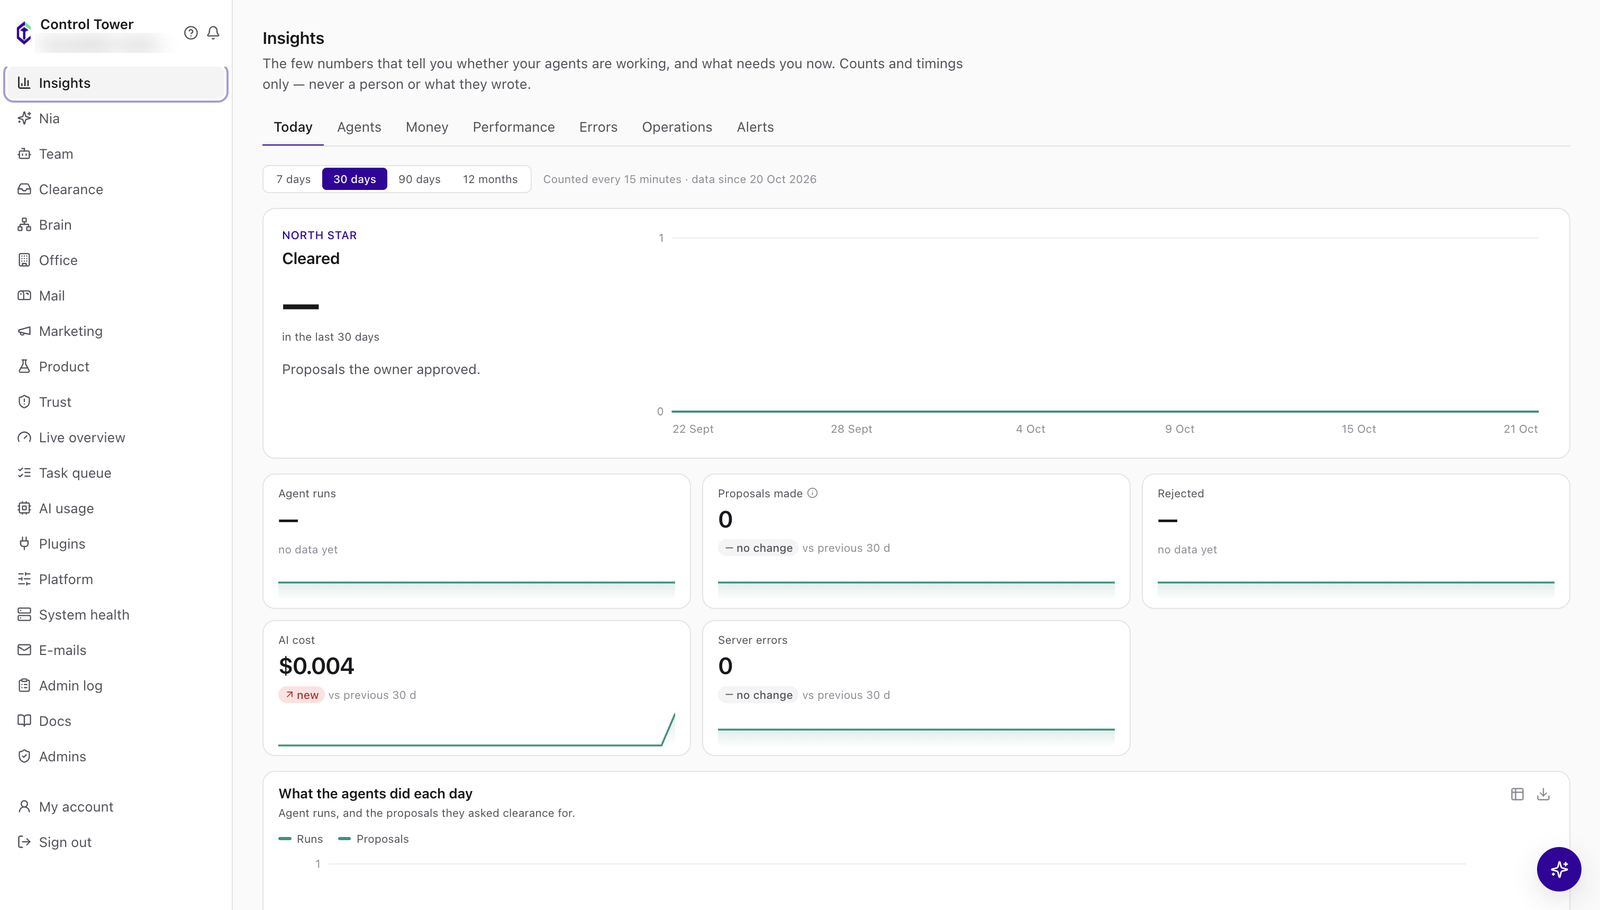
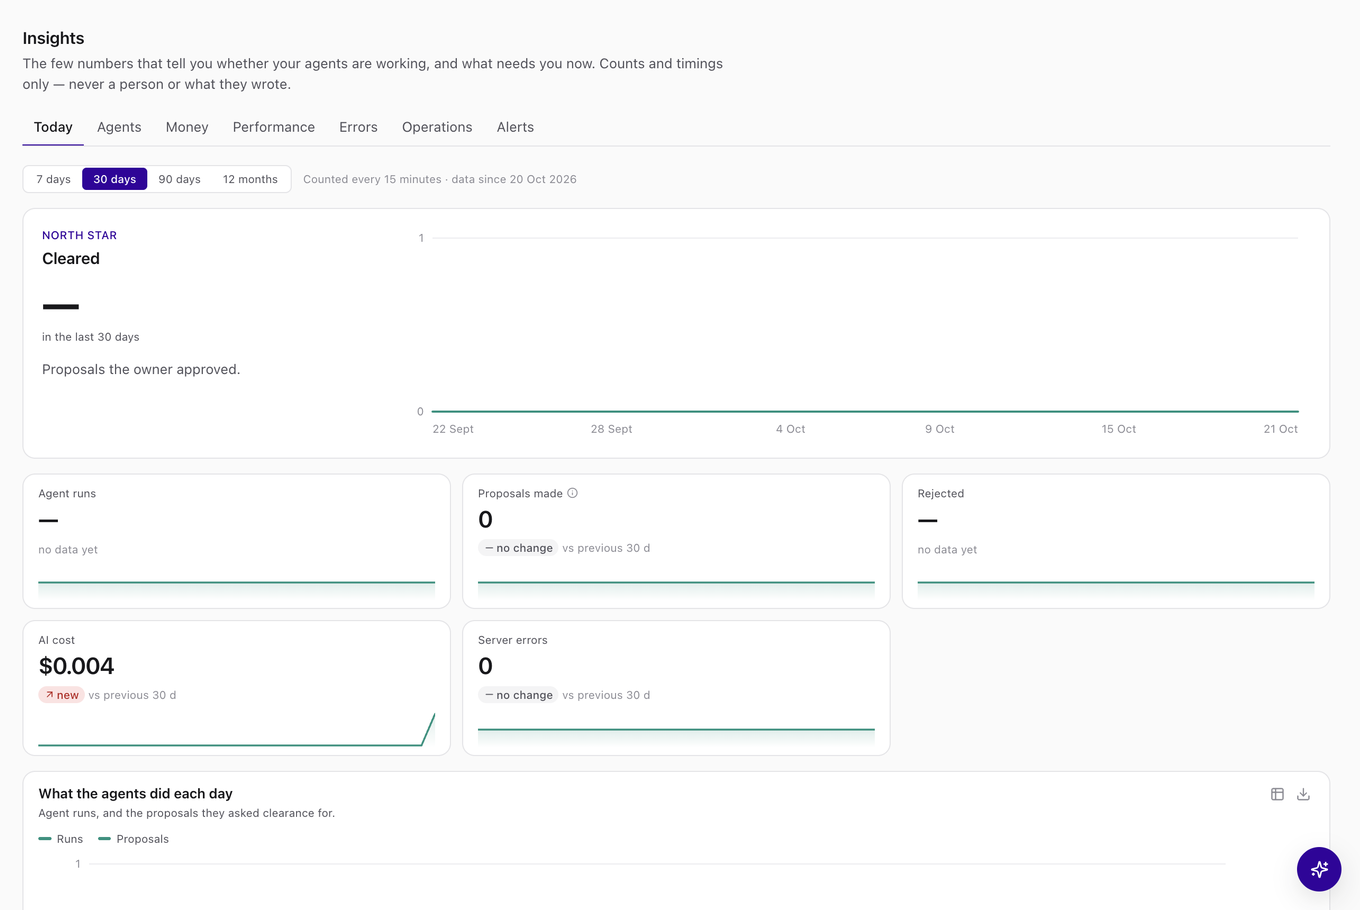
README: Clearance and Team screenshots from Epliv; See it as a readable grid
Screenshots cropped to the page content; the signed-in e-mail removed.

diff --git a/README.md b/README.md
@@ -51,18 +51,30 @@ follow-ups. Control Tower gives you a team for that, without handing your busine
 
 <table>
   <tr>
+    <td colspan="2" valign="top">
+      <img src="docs/images/clearance.png" alt="Clearance: suggestions from the agents Scout and Research Lead, each with why, the expected effect, the evidence and Approve, Edit or Reject">
+      <p><b>Clearance</b> — every suggestion waits for you, with why the agent makes it, what it expects, and the evidence. Approve, edit, or reject and say why: the agent learns from it. <sub>(Epliv, where it is called Approvals: 15 waiting, 1,048 done.)</sub></p>
+    </td>
+  </tr>
+  <tr>
+    <td width="50%" valign="top">
+      <img src="docs/images/team.png" alt="Team: the team switch, daily and monthly AI budgets, and each agent by department with its schedule and cost">
+      <p><b>Your team</b> — each agent with its job, its schedule and what it cost today and this week, under a daily and monthly budget you set. One switch stops them all. <sub>(Epliv's team.)</sub></p>
+    </td>
     <td width="50%" valign="top">
       <img src="docs/images/dashboard.png" alt="Insights: the north-star number, agent runs, proposals, AI cost and server errors over 30 days">
       <p><b>Insights</b> — the few numbers that tell you whether your agents are working: what they did, what you cleared, what it cost. Your product's own numbers sit next to them.</p>
     </td>
-    <td width="50%" valign="top">
+  </tr>
+  <tr>
+    <td colspan="2" valign="top">
       <img src="docs/images/brain.jpg" alt="The Brain: a graph of everything the team knows — agents, departments, handoffs, proposals, notes and memories">
-      <p><b>The Brain</b> — everything the team knows and did, as one web you can search and ask. Every agent reads it before it works. <sub>(Epliv's brain, after a few weeks.)</sub></p>
+      <p><b>The Brain</b> — everything the team knows and did, as one web you can search and ask. Every agent reads it before it works. <sub>(Epliv's brain, after a few weeks: 1,726 things and 2,314 links.)</sub></p>
     </td>
   </tr>
 </table>
 
-Also inside: **Clearance**, **Nia** by text or voice, team **chat** with any agent, a **mail client** for the agents'
+Also inside: **Nia** by text or voice, team **chat** with any agent, a **mail client** for the agents'
 mailboxes, a **marketing studio** (pictures and short videos), **Trust** reviews of the agents' work, and a
 **gateway** (MCP) so outside agents like Claude Code or ChatGPT can join your team under the same rules.
 
